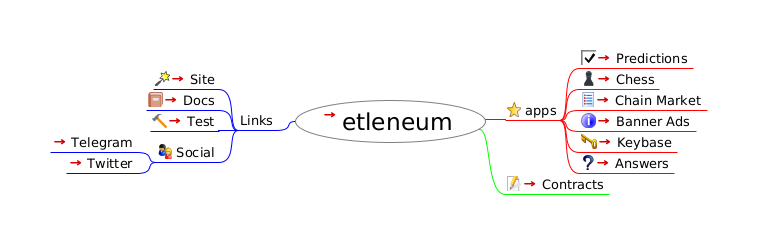
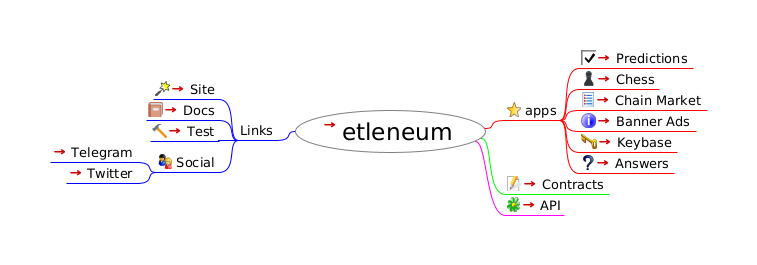
add etleneum API

Changed region(s): [[0.1823, 0.1721, 0.9419, 0.832], [0.0608, 0.5451, 0.3038, 0.7172], [0.1823, 0.2869, 0.3038, 0.459]]

diff --git a/contracts/etleneum/index.html b/contracts/etleneum/index.html
@@ -23,7 +23,7 @@
                    };
                };
           
-          --></script></head><body><h1>etleneum</h1><div style="width:96%;  padding:2%;  margin-bottom:10px;  border: 0px;  text-align:center;  vertical-align:center;"><img src="index.html_files/image.png" style="margin-bottom:10px; &#9;border: 0px; &#9;text-align:center; &#9;vertical-align:center;" alt="Imagemap" usemap="#fm_imagemap" /></div><map name="fm_imagemap" id="fm_imagemap"><area shape="rect" href="../../index.html" alt="etleneum" title="etleneum" coords="295,100,486,143" />
+          --></script></head><body><h1>etleneum</h1><div style="width:96%;  padding:2%;  margin-bottom:10px;  border: 0px;  text-align:center;  vertical-align:center;"><img src="index.html_files/image.png" style="margin-bottom:10px; &#9;border: 0px; &#9;text-align:center; &#9;vertical-align:center;" alt="Imagemap" usemap="#fm_imagemap" /></div><map name="fm_imagemap" id="fm_imagemap"><area shape="rect" href="../../index.html" alt="etleneum" title="etleneum" coords="295,110,486,153" />
 <area shape="rect" href="#FMID_155456580FM" alt="apps" title="apps" coords="505,102,560,120" />
 <area shape="rect" href="https://predictions.etleneum.com/" alt="Predictions" title="Predictions" coords="579,50,693,68" />
 <area shape="rect" href="http://lichess.etleneum.com/" alt="Chess" title="Chess" coords="579,71,659,89" />
@@ -31,15 +31,16 @@
 <area shape="rect" href="https://banners.etleneum.com/" alt="Banner Ads" title="Banner Ads" coords="579,113,696,131" />
 <area shape="rect" href="https://kad.etleneum.com/" alt="Keybase" title="Keybase" coords="579,134,677,152" />
 <area shape="rect" href="https://s4a.etleneum.com/" alt="Answers" title="Answers" coords="579,155,674,173" />
-<area shape="rect" href="#FMID_1589865073FM" alt="Links" title="Links" coords="238,112,276,130" />
-<area shape="rect" href="https://etleneum.com/" alt="Site" title="Site" coords="153,71,219,89" />
-<area shape="rect" href="https://etleneum.com/#/docs" alt="Docs" title="Docs" coords="146,92,219,110" />
-<area shape="rect" href="https://test.etleneum.com/" alt="Test" title="Test" coords="150,113,219,131" />
-<area shape="rect" href="#FMID_741069104FM" alt="Social" title="Social" coords="156,144,219,162" />
-<area shape="rect" href="https://t.me/etleneum" alt="Telegram" title="Telegram" coords="50,134,137,152" />
-<area shape="rect" href="https://twitter.com/etleneum2" alt="Twitter" title="Twitter" coords="66,155,137,173" />
+<area shape="rect" href="#FMID_1589865073FM" alt="Links" title="Links" coords="238,122,276,140" />
+<area shape="rect" href="https://etleneum.com/" alt="Site" title="Site" coords="153,81,219,99" />
+<area shape="rect" href="https://etleneum.com/#/docs" alt="Docs" title="Docs" coords="146,102,219,120" />
+<area shape="rect" href="https://test.etleneum.com/" alt="Test" title="Test" coords="150,123,219,141" />
+<area shape="rect" href="#FMID_741069104FM" alt="Social" title="Social" coords="156,154,219,172" />
+<area shape="rect" href="https://t.me/etleneum" alt="Telegram" title="Telegram" coords="50,144,137,162" />
+<area shape="rect" href="https://twitter.com/etleneum2" alt="Twitter" title="Twitter" coords="66,165,137,183" />
 <area shape="rect" href="https://etleneum.com/#/contracts" alt="Contracts" title="Contracts" coords="505,176,609,194" />
+<area shape="rect" href="API.html" alt="API" title="API" coords="505,197,564,215" />
 </map>
 
-<div class="node"><img src="index.html_files/hide.png" class="hideshow" alt="hide" onClick="toggle(&quot;N65543&quot;)" id="imgN65543" /><a id="FMID_1388300726FM" /><div class="nodecontent" style="color:#000000;font-size:150%;"><a href="../../index.html">etleneum</a> <a href="../../index.html"><img src="index.html_files/ilink.png" alt="User Link" style="border-width:0" /></a></div><div class="content" id="N65543"><div class="node"><img src="index.html_files/hide.png" class="hideshow" alt="hide" onClick="toggle(&quot;N66440&quot;)" id="imgN66440" /><img src="index.html_files/icons/bookmark.svg" alt="bookmark" /> <a id="FMID_155456580FM" /><div class="nodecontent" style="color:#000000;font-size:83%;">apps</div><div class="content" id="N66440"><div class="node"><img src="index.html_files/leaf.png" class="hideshow" alt="leaf" /><img src="index.html_files/icons/checked.svg" alt="checked" /> <a id="FMID_230763179FM" /><div class="nodecontent" style="color:#000000;font-size:83%;"><a href="https://predictions.etleneum.com/">Predictions</a> <a href="https://predictions.etleneum.com/"><img src="index.html_files/ilink.png" alt="User Link" style="border-width:0" /></a></div></div><div class="node"><img src="index.html_files/leaf.png" class="hideshow" alt="leaf" /><img src="index.html_files/icons/emoji-265F.png" alt="emoji-265F" /> <a id="FMID_623666999FM" /><div class="nodecontent" style="color:#000000;font-size:83%;"><a href="http://lichess.etleneum.com/">Chess</a> <a href="http://lichess.etleneum.com/"><img src="index.html_files/ilink.png" alt="User Link" style="border-width:0" /></a></div></div><div class="node"><img src="index.html_files/leaf.png" class="hideshow" alt="leaf" /><img src="index.html_files/icons/list.svg" alt="list" /> <a id="FMID_97132608FM" /><div class="nodecontent" style="color:#000000;font-size:83%;"><a href="https://chainmarket.etleneum.com/">Chain Market</a> <a href="https://chainmarket.etleneum.com/"><img src="index.html_files/ilink.png" alt="User Link" style="border-width:0" /></a></div></div><div class="node"><img src="index.html_files/leaf.png" class="hideshow" alt="leaf" /><img src="index.html_files/icons/info.svg" alt="info" /> <a id="FMID_1128227880FM" /><div class="nodecontent" style="color:#000000;font-size:83%;"><a href="https://banners.etleneum.com/">Banner Ads</a> <a href="https://banners.etleneum.com/"><img src="index.html_files/ilink.png" alt="User Link" style="border-width:0" /></a></div></div><div class="node"><img src="index.html_files/leaf.png" class="hideshow" alt="leaf" /><img src="index.html_files/icons/password.svg" alt="password" /> <a id="FMID_775382578FM" /><div class="nodecontent" style="color:#000000;font-size:83%;"><a href="https://kad.etleneum.com/">Keybase</a> <a href="https://kad.etleneum.com/"><img src="index.html_files/ilink.png" alt="User Link" style="border-width:0" /></a></div></div><div class="node"><img src="index.html_files/leaf.png" class="hideshow" alt="leaf" /><img src="index.html_files/icons/help.svg" alt="help" /> <a id="FMID_102962202FM" /><div class="nodecontent" style="color:#000000;font-size:83%;"><a href="https://s4a.etleneum.com/">Answers</a> <a href="https://s4a.etleneum.com/"><img src="index.html_files/ilink.png" alt="User Link" style="border-width:0" /></a></div></div></div></div><div class="node"><img src="index.html_files/hide.png" class="hideshow" alt="hide" onClick="toggle(&quot;N66734&quot;)" id="imgN66734" /><a id="FMID_1589865073FM" /><div class="nodecontent" style="color:#000000;font-size:83%;">Links</div><div class="content" id="N66734"><div class="node"><img src="index.html_files/leaf.png" class="hideshow" alt="leaf" /><img src="index.html_files/icons/wizard.svg" alt="wizard" /> <a id="FMID_1240101594FM" /><div class="nodecontent" style="color:#000000;font-size:83%;"><a href="https://etleneum.com/">Site</a> <a href="https://etleneum.com/"><img src="index.html_files/ilink.png" alt="User Link" style="border-width:0" /></a></div></div><div class="node"><img src="index.html_files/leaf.png" class="hideshow" alt="leaf" /><img src="index.html_files/icons/emoji-1F4D4.png" alt="emoji-1F4D4" /> <a id="FMID_1094040580FM" /><div class="nodecontent" style="color:#000000;font-size:83%;"><a href="https://etleneum.com/#/docs">Docs</a> <a href="https://etleneum.com/#/docs"><img src="index.html_files/ilink.png" alt="User Link" style="border-width:0" /></a></div></div><div class="node"><img src="index.html_files/leaf.png" class="hideshow" alt="leaf" /><img src="index.html_files/icons/emoji-1F528.png" alt="emoji-1F528" /> <a id="FMID_1572353532FM" /><div class="nodecontent" style="color:#000000;font-size:83%;"><a href="https://test.etleneum.com/">Test</a> <a href="https://test.etleneum.com/"><img src="index.html_files/ilink.png" alt="User Link" style="border-width:0" /></a></div></div><div class="node"><img src="index.html_files/hide.png" class="hideshow" alt="hide" onClick="toggle(&quot;N66896&quot;)" id="imgN66896" /><img src="index.html_files/icons/fema.svg" alt="fema" /> <a id="FMID_741069104FM" /><div class="nodecontent" style="color:#000000;font-size:83%;">Social</div><div class="content" id="N66896"><div class="node"><img src="index.html_files/leaf.png" class="hideshow" alt="leaf" /><a id="FMID_1447316975FM" /><div class="nodecontent" style="color:#000000;font-size:83%;"><a href="https://t.me/etleneum">Telegram</a> <a href="https://t.me/etleneum"><img src="index.html_files/ilink.png" alt="User Link" style="border-width:0" /></a></div></div><div class="node"><img src="index.html_files/leaf.png" class="hideshow" alt="leaf" /><a id="FMID_1489373962FM" /><div class="nodecontent" style="color:#000000;font-size:83%;"><a href="https://twitter.com/etleneum2">Twitter</a> <a href="https://twitter.com/etleneum2"><img src="index.html_files/ilink.png" alt="User Link" style="border-width:0" /></a></div></div></div></div></div></div><div class="node"><img src="index.html_files/leaf.png" class="hideshow" alt="leaf" /><img src="index.html_files/icons/edit.svg" alt="edit" /> <a id="FMID_1943988554FM" /><div class="nodecontent" style="color:#000000;font-size:83%;"><a href="https://etleneum.com/#/contracts">Contracts</a> <a href="https://etleneum.com/#/contracts"><img src="index.html_files/ilink.png" alt="User Link" style="border-width:0" /></a></div></div></div></div>
+<div class="node"><img src="index.html_files/hide.png" class="hideshow" alt="hide" onClick="toggle(&quot;N65543&quot;)" id="imgN65543" /><a id="FMID_1388300726FM" /><div class="nodecontent" style="color:#000000;font-size:150%;"><a href="../../index.html">etleneum</a> <a href="../../index.html"><img src="index.html_files/ilink.png" alt="User Link" style="border-width:0" /></a></div><div class="content" id="N65543"><div class="node"><img src="index.html_files/hide.png" class="hideshow" alt="hide" onClick="toggle(&quot;N66440&quot;)" id="imgN66440" /><img src="index.html_files/icons/bookmark.svg" alt="bookmark" /> <a id="FMID_155456580FM" /><div class="nodecontent" style="color:#000000;font-size:83%;">apps</div><div class="content" id="N66440"><div class="node"><img src="index.html_files/leaf.png" class="hideshow" alt="leaf" /><img src="index.html_files/icons/checked.svg" alt="checked" /> <a id="FMID_230763179FM" /><div class="nodecontent" style="color:#000000;font-size:83%;"><a href="https://predictions.etleneum.com/">Predictions</a> <a href="https://predictions.etleneum.com/"><img src="index.html_files/ilink.png" alt="User Link" style="border-width:0" /></a></div></div><div class="node"><img src="index.html_files/leaf.png" class="hideshow" alt="leaf" /><img src="index.html_files/icons/emoji-265F.png" alt="emoji-265F" /> <a id="FMID_623666999FM" /><div class="nodecontent" style="color:#000000;font-size:83%;"><a href="http://lichess.etleneum.com/">Chess</a> <a href="http://lichess.etleneum.com/"><img src="index.html_files/ilink.png" alt="User Link" style="border-width:0" /></a></div></div><div class="node"><img src="index.html_files/leaf.png" class="hideshow" alt="leaf" /><img src="index.html_files/icons/list.svg" alt="list" /> <a id="FMID_97132608FM" /><div class="nodecontent" style="color:#000000;font-size:83%;"><a href="https://chainmarket.etleneum.com/">Chain Market</a> <a href="https://chainmarket.etleneum.com/"><img src="index.html_files/ilink.png" alt="User Link" style="border-width:0" /></a></div></div><div class="node"><img src="index.html_files/leaf.png" class="hideshow" alt="leaf" /><img src="index.html_files/icons/info.svg" alt="info" /> <a id="FMID_1128227880FM" /><div class="nodecontent" style="color:#000000;font-size:83%;"><a href="https://banners.etleneum.com/">Banner Ads</a> <a href="https://banners.etleneum.com/"><img src="index.html_files/ilink.png" alt="User Link" style="border-width:0" /></a></div></div><div class="node"><img src="index.html_files/leaf.png" class="hideshow" alt="leaf" /><img src="index.html_files/icons/password.svg" alt="password" /> <a id="FMID_775382578FM" /><div class="nodecontent" style="color:#000000;font-size:83%;"><a href="https://kad.etleneum.com/">Keybase</a> <a href="https://kad.etleneum.com/"><img src="index.html_files/ilink.png" alt="User Link" style="border-width:0" /></a></div></div><div class="node"><img src="index.html_files/leaf.png" class="hideshow" alt="leaf" /><img src="index.html_files/icons/help.svg" alt="help" /> <a id="FMID_102962202FM" /><div class="nodecontent" style="color:#000000;font-size:83%;"><a href="https://s4a.etleneum.com/">Answers</a> <a href="https://s4a.etleneum.com/"><img src="index.html_files/ilink.png" alt="User Link" style="border-width:0" /></a></div></div></div></div><div class="node"><img src="index.html_files/hide.png" class="hideshow" alt="hide" onClick="toggle(&quot;N66734&quot;)" id="imgN66734" /><a id="FMID_1589865073FM" /><div class="nodecontent" style="color:#000000;font-size:83%;">Links</div><div class="content" id="N66734"><div class="node"><img src="index.html_files/leaf.png" class="hideshow" alt="leaf" /><img src="index.html_files/icons/wizard.svg" alt="wizard" /> <a id="FMID_1240101594FM" /><div class="nodecontent" style="color:#000000;font-size:83%;"><a href="https://etleneum.com/">Site</a> <a href="https://etleneum.com/"><img src="index.html_files/ilink.png" alt="User Link" style="border-width:0" /></a></div></div><div class="node"><img src="index.html_files/leaf.png" class="hideshow" alt="leaf" /><img src="index.html_files/icons/emoji-1F4D4.png" alt="emoji-1F4D4" /> <a id="FMID_1094040580FM" /><div class="nodecontent" style="color:#000000;font-size:83%;"><a href="https://etleneum.com/#/docs">Docs</a> <a href="https://etleneum.com/#/docs"><img src="index.html_files/ilink.png" alt="User Link" style="border-width:0" /></a></div></div><div class="node"><img src="index.html_files/leaf.png" class="hideshow" alt="leaf" /><img src="index.html_files/icons/emoji-1F528.png" alt="emoji-1F528" /> <a id="FMID_1572353532FM" /><div class="nodecontent" style="color:#000000;font-size:83%;"><a href="https://test.etleneum.com/">Test</a> <a href="https://test.etleneum.com/"><img src="index.html_files/ilink.png" alt="User Link" style="border-width:0" /></a></div></div><div class="node"><img src="index.html_files/hide.png" class="hideshow" alt="hide" onClick="toggle(&quot;N66896&quot;)" id="imgN66896" /><img src="index.html_files/icons/fema.svg" alt="fema" /> <a id="FMID_741069104FM" /><div class="nodecontent" style="color:#000000;font-size:83%;">Social</div><div class="content" id="N66896"><div class="node"><img src="index.html_files/leaf.png" class="hideshow" alt="leaf" /><a id="FMID_1447316975FM" /><div class="nodecontent" style="color:#000000;font-size:83%;"><a href="https://t.me/etleneum">Telegram</a> <a href="https://t.me/etleneum"><img src="index.html_files/ilink.png" alt="User Link" style="border-width:0" /></a></div></div><div class="node"><img src="index.html_files/leaf.png" class="hideshow" alt="leaf" /><a id="FMID_1489373962FM" /><div class="nodecontent" style="color:#000000;font-size:83%;"><a href="https://twitter.com/etleneum2">Twitter</a> <a href="https://twitter.com/etleneum2"><img src="index.html_files/ilink.png" alt="User Link" style="border-width:0" /></a></div></div></div></div></div></div><div class="node"><img src="index.html_files/leaf.png" class="hideshow" alt="leaf" /><img src="index.html_files/icons/edit.svg" alt="edit" /> <a id="FMID_1943988554FM" /><div class="nodecontent" style="color:#000000;font-size:83%;"><a href="https://etleneum.com/#/contracts">Contracts</a> <a href="https://etleneum.com/#/contracts"><img src="index.html_files/ilink.png" alt="User Link" style="border-width:0" /></a></div></div><div class="node"><img src="index.html_files/leaf.png" class="hideshow" alt="leaf" /><img src="index.html_files/icons/licq.svg" alt="licq" /> <a id="FMID_827355597FM" /><div class="nodecontent" style="color:#000000;font-size:83%;"><a href="API.html">API</a> <a href="API.html"><img src="index.html_files/ilink.png" alt="User Link" style="border-width:0" /></a></div></div></div></div>
 </body></html>

diff --git a/contracts/etleneum/API.html b/contracts/etleneum/API.html
@@ -1,0 +1,42 @@
+<?xml version="1.0" encoding="UTF-8"?><!DOCTYPE html PUBLIC "-//W3C//DTD XHTML 1.1//EN" "http://www.w3.org/TR/xhtml11/DTD/xhtml11.dtd">
+<html xmlns="http://www.w3.org/1999/xhtml"><meta http-equiv="Content-Type" content="text/html; charset=UTF-8" /><!--This file has been created with processhtml.sh--><head><title>API</title><link rel="stylesheet" href="API.html_files/freeplane2html.css" type="text/css" /><meta name="generator" content="Freeplane-XSL Stylesheet (see: http://freeplane-xsl.dev.slash-me.net/ for details)" /><script type="text/javascript" src="API.html_files/freeplane2html.js"> 
+	</script><script type="text/javascript"><!--
+          
+               function toggle(id)
+               {
+                   div_el = document.getElementById(id);
+                   img_el = document.getElementById('img'+id);
+                   if (div_el.style.display != 'none')
+                   {
+          
+
+                      div_el.style.display='none';
+                      img_el.src = 'API.html_files/show.png';
+          
+                   }
+                   else
+                   {
+          
+                      div_el.style.display='block';
+                      img_el.src = 'API.html_files/hide.png';
+          
+                   };
+               };
+          
+          --></script></head><body><h1>API</h1><div style="width:96%;  padding:2%;  margin-bottom:10px;  border: 0px;  text-align:center;  vertical-align:center;"><img src="API.html_files/image.png" style="margin-bottom:10px; &#9;border: 0px; &#9;text-align:center; &#9;vertical-align:center;" alt="Imagemap" usemap="#fm_imagemap" /></div><map name="fm_imagemap" id="fm_imagemap"><area shape="rect" href="index.html" alt="API" title="API" coords="124,96,208,139" />
+<area shape="rect" href="https://etleneum.com/#/docs" alt="docs" title="docs" coords="50,108,105,126" />
+<area shape="rect" href="#FMID_1073374190FM" alt="endpoints" title="endpoints" coords="227,108,297,126" />
+<area shape="rect" href="https://etleneum.com/~/contracts" alt="contracts" title="contracts" coords="316,50,402,68" />
+<area shape="rect" href="#FMID_920607568FM" alt="contract" title="contract" coords="316,94,375,112" />
+<area shape="rect" href="https://etleneum.com/~/contract/co04ob1edje" alt="id" title="id" coords="394,92,430,110" />
+<area shape="rect" href="https://etleneum.com/~/contract/co04ob1edje/state" alt="state" title="state" coords="449,71,507,89" />
+<area shape="rect" href="https://etleneum.com/~/contract/co04ob1edje/funds" alt="funds" title="funds" coords="449,92,510,110" />
+<area shape="rect" href="https://etleneum.com/~/contract/co04ob1edje/calls" alt="calls" title="calls" coords="449,113,503,131" />
+<area shape="rect" href="#FMID_697787576FM" alt="call" title="call" coords="316,136,343,154" />
+<area shape="rect" href="https://etleneum.com/~/call/rjcflb1eke9" alt="id" title="id" coords="362,134,398,152" />
+<area shape="rect" href="https://etleneum.com/lnurl/auth" alt="auth" title="auth" coords="316,159,370,177" />
+<area shape="rect" href="https://github.com/btcontract/lnurl-rfc/blob/master/lnurl-auth.md" alt="lnurl-auth" title="lnurl-auth" coords="389,157,478,175" />
+</map>
+
+<div class="node"><img src="API.html_files/hide.png" class="hideshow" alt="hide" onClick="toggle(&quot;N65543&quot;)" id="imgN65543" /><a id="FMID_1940681808FM" /><div class="nodecontent" style="color:#000000;font-size:150%;"><a href="index.html">API</a> <a href="index.html"><img src="API.html_files/ilink.png" alt="User Link" style="border-width:0" /></a></div><div class="content" id="N65543"><div class="node"><img src="API.html_files/leaf.png" class="hideshow" alt="leaf" /><a id="FMID_1428654413FM" /><div class="nodecontent" style="color:#000000;font-size:83%;"><a href="https://etleneum.com/#/docs">docs</a> <a href="https://etleneum.com/#/docs"><img src="API.html_files/ilink.png" alt="User Link" style="border-width:0" /></a></div></div><div class="node"><img src="API.html_files/hide.png" class="hideshow" alt="hide" onClick="toggle(&quot;N66478&quot;)" id="imgN66478" /><a id="FMID_1073374190FM" /><div class="nodecontent" style="color:#000000;font-size:83%;">endpoints</div><div class="content" id="N66478"><div class="node"><img src="API.html_files/leaf.png" class="hideshow" alt="leaf" /><a id="FMID_95939727FM" /><div class="nodecontent" style="color:#000000;font-size:83%;"><a href="https://etleneum.com/~/contracts">contracts</a> <a href="https://etleneum.com/~/contracts"><img src="API.html_files/ilink.png" alt="User Link" style="border-width:0" /></a></div></div><div class="node"><img src="API.html_files/hide.png" class="hideshow" alt="hide" onClick="toggle(&quot;N66551&quot;)" id="imgN66551" /><a id="FMID_920607568FM" /><div class="nodecontent" style="color:#000000;font-size:83%;">contract</div><div class="content" id="N66551"><div class="node"><img src="API.html_files/hide.png" class="hideshow" alt="hide" onClick="toggle(&quot;N66586&quot;)" id="imgN66586" /><a id="FMID_819408260FM" /><div class="nodecontent" style="color:#000000;font-size:83%;"><a href="https://etleneum.com/~/contract/co04ob1edje">id</a> <a href="https://etleneum.com/~/contract/co04ob1edje"><img src="API.html_files/ilink.png" alt="User Link" style="border-width:0" /></a></div><div class="content" id="N66586"><div class="node"><img src="API.html_files/leaf.png" class="hideshow" alt="leaf" /><a id="FMID_1039933301FM" /><div class="nodecontent" style="color:#000000;font-size:83%;"><a href="https://etleneum.com/~/contract/co04ob1edje/state">state</a> <a href="https://etleneum.com/~/contract/co04ob1edje/state"><img src="API.html_files/ilink.png" alt="User Link" style="border-width:0" /></a></div></div><div class="node"><img src="API.html_files/leaf.png" class="hideshow" alt="leaf" /><a id="FMID_1733023142FM" /><div class="nodecontent" style="color:#000000;font-size:83%;"><a href="https://etleneum.com/~/contract/co04ob1edje/funds">funds</a> <a href="https://etleneum.com/~/contract/co04ob1edje/funds"><img src="API.html_files/ilink.png" alt="User Link" style="border-width:0" /></a></div></div><div class="node"><img src="API.html_files/leaf.png" class="hideshow" alt="leaf" /><a id="FMID_1849190171FM" /><div class="nodecontent" style="color:#000000;font-size:83%;"><a href="https://etleneum.com/~/contract/co04ob1edje/calls">calls</a> <a href="https://etleneum.com/~/contract/co04ob1edje/calls"><img src="API.html_files/ilink.png" alt="User Link" style="border-width:0" /></a></div></div></div></div></div></div><div class="node"><img src="API.html_files/hide.png" class="hideshow" alt="hide" onClick="toggle(&quot;N66735&quot;)" id="imgN66735" /><a id="FMID_697787576FM" /><div class="nodecontent" style="color:#000000;font-size:83%;">call</div><div class="content" id="N66735"><div class="node"><img src="API.html_files/leaf.png" class="hideshow" alt="leaf" /><a id="FMID_1409054168FM" /><div class="nodecontent" style="color:#000000;font-size:83%;"><a href="https://etleneum.com/~/call/rjcflb1eke9">id</a> <a href="https://etleneum.com/~/call/rjcflb1eke9"><img src="API.html_files/ilink.png" alt="User Link" style="border-width:0" /></a></div></div></div></div><div class="node"><img src="API.html_files/hide.png" class="hideshow" alt="hide" onClick="toggle(&quot;N66808&quot;)" id="imgN66808" /><a id="FMID_891952139FM" /><div class="nodecontent" style="color:#000000;font-size:83%;"><a href="https://etleneum.com/lnurl/auth">auth</a> <a href="https://etleneum.com/lnurl/auth"><img src="API.html_files/ilink.png" alt="User Link" style="border-width:0" /></a></div><div class="content" id="N66808"><div class="node"><img src="API.html_files/leaf.png" class="hideshow" alt="leaf" /><a id="FMID_1415993510FM" /><div class="nodecontent" style="color:#000000;font-size:83%;"><a href="https://github.com/btcontract/lnurl-rfc/blob/master/lnurl-auth.md">lnurl-auth</a> <a href="https://github.com/btcontract/lnurl-rfc/blob/master/lnurl-auth.md"><img src="API.html_files/ilink.png" alt="User Link" style="border-width:0" /></a></div></div></div></div></div></div></div></div>
+</body></html>

diff --git a/contracts/etleneum/API.html_files/freeplane2html.css b/contracts/etleneum/API.html_files/freeplane2html.css
@@ -1,0 +1,65 @@
+body {
+  background-color: #FFFFFF;
+}
+
+div.node {
+  padding-bottom:     1ex;
+  padding-left:       2em;
+}
+
+div.cloud {
+  padding-bottom:     1ex;
+  padding-left:       2em;
+  background-color:   #C0C0FF;
+  border-width:       2px;
+  border-style:       solid;
+  border-color:       #A0A0FF;
+}
+
+div.content {
+  border-width:       1px;
+  border-style:   dashed;
+  border-color:       #C0C0C0;
+}
+
+img.hideshow {
+  padding-right: 1ex;
+}
+
+img.ilink {
+  border-width: 0px;
+  padding-left: 1ex;
+}
+
+/* for notes and image export, fc, 18.7.2005. */
+.images {
+ max-width:50%;
+}
+
+.nodecontent {display:inline;}
+
+.note-and-attributes {
+ margin-left:10%;
+ color:#0000FF;
+}
+
+table.attributes {
+	border-collapse:collapse;
+	empty-cells:show;
+	border:thin black solid;
+}
+table.attributes td,th {
+	border:thin black solid;
+	padding-top:2px;
+	padding-bottom:2px;
+	padding-left:3px;
+	padding-right:3px;
+}
+table.attributes th {
+	text-align:center;
+}
+table.attributes caption {
+	margin-top:1em;
+	font-style:italic;
+	text-align:center;
+}

diff --git a/contracts/etleneum/API.mm b/contracts/etleneum/API.mm
@@ -1,6 +1,6 @@
 <map version="freeplane 1.8.0">
 <!--To view this file, download free mind mapping software Freeplane from http://freeplane.sourceforge.net -->
-<node TEXT="etleneum" FOLDED="false" ID="ID_1388300726" CREATED="1599501858049" MODIFIED="1599501916390" LINK="../../index.mm" STYLE="oval">
+<node TEXT="API" FOLDED="false" ID="ID_1940681808" CREATED="1599514129935" MODIFIED="1599514142030" LINK="index.mm" STYLE="oval">
 <font SIZE="18"/>
 <hook NAME="MapStyle">
     <properties edgeColorConfiguration="#808080ff,#ff0000ff,#0000ffff,#00ff00ff,#ff00ffff,#00ffffff,#7c0000ff,#00007cff,#007c00ff,#7c007cff,#007c7cff,#7c7c00ff" fit_to_viewport="false"/>
@@ -63,53 +63,26 @@
 </stylenode>
 </map_styles>
 </hook>
-<hook NAME="AutomaticEdgeColor" COUNTER="4" RULE="ON_BRANCH_CREATION"/>
-<node TEXT="apps" POSITION="right" ID="ID_155456580" CREATED="1599502609475" MODIFIED="1599502940454">
-<icon BUILTIN="bookmark"/>
+<hook NAME="AutomaticEdgeColor" COUNTER="2" RULE="ON_BRANCH_CREATION"/>
+<node TEXT="docs" POSITION="left" ID="ID_1428654413" CREATED="1599514206211" MODIFIED="1599514236891" LINK="https://etleneum.com/#/docs">
 <edge COLOR="#ff0000"/>
-<node TEXT="Predictions" ID="ID_230763179" CREATED="1599502647098" MODIFIED="1599502916964" LINK="https://predictions.etleneum.com/">
-<icon BUILTIN="checked"/>
 </node>
-<node TEXT="Chess" ID="ID_623666999" CREATED="1599502819185" MODIFIED="1599503083431" LINK="http://lichess.etleneum.com/">
-<icon BUILTIN="emoji-265F"/>
-</node>
-<node TEXT="Chain Market" ID="ID_97132608" CREATED="1599502840947" MODIFIED="1599502860224" LINK="https://chainmarket.etleneum.com/">
-<icon BUILTIN="list"/>
-</node>
-<node TEXT="Banner Ads" ID="ID_1128227880" CREATED="1599502681218" MODIFIED="1599502699207" LINK="https://banners.etleneum.com/">
-<icon BUILTIN="info"/>
-</node>
-<node TEXT="Keybase" ID="ID_775382578" CREATED="1599502870162" MODIFIED="1599502882120" LINK="https://kad.etleneum.com/">
-<icon BUILTIN="password"/>
-</node>
-<node TEXT="Answers" ID="ID_102962202" CREATED="1599502710906" MODIFIED="1599502722177" LINK="https://s4a.etleneum.com/">
-<icon BUILTIN="help"/>
-</node>
-</node>
-<node TEXT="Links" POSITION="left" ID="ID_1589865073" CREATED="1599502907554" MODIFIED="1599502912014">
+<node TEXT="endpoints" POSITION="right" ID="ID_1073374190" CREATED="1599514258261" MODIFIED="1599514260388">
 <edge COLOR="#0000ff"/>
-<node TEXT="Site" ID="ID_1240101594" CREATED="1599502923073" MODIFIED="1599504237755" LINK="https://etleneum.com/">
-<icon BUILTIN="wizard"/>
-</node>
-<node TEXT="Docs" ID="ID_1094040580" CREATED="1599502943361" MODIFIED="1599503126191" LINK="https://etleneum.com/#/docs">
-<icon BUILTIN="emoji-1F4D4"/>
-</node>
-<node TEXT="Test" ID="ID_1572353532" CREATED="1599503136213" MODIFIED="1599503182590" LINK="https://test.etleneum.com/">
-<icon BUILTIN="emoji-1F528"/>
-</node>
-<node TEXT="Social" ID="ID_741069104" CREATED="1599503208326" MODIFIED="1599503226492">
-<icon BUILTIN="fema"/>
-<node TEXT="Telegram" ID="ID_1447316975" CREATED="1599503227885" MODIFIED="1599503485837" LINK="https://t.me/etleneum"/>
-<node TEXT="Twitter" ID="ID_1489373962" CREATED="1599503478840" MODIFIED="1599503548728" LINK="https://twitter.com/etleneum2"/>
+<node TEXT="contracts" ID="ID_95939727" CREATED="1599514278117" MODIFIED="1599514282012" LINK="https://etleneum.com/~/contracts"/>
+<node TEXT="contract" ID="ID_920607568" CREATED="1599514347348" MODIFIED="1599514349644">
+<node TEXT="id" ID="ID_819408260" CREATED="1599514425075" MODIFIED="1599514742355" LINK="https://etleneum.com/~/contract/co04ob1edje">
+<node TEXT="state" ID="ID_1039933301" CREATED="1599514338276" MODIFIED="1599514758978" LINK="https://etleneum.com/~/contract/co04ob1edje/state"/>
+<node TEXT="funds" ID="ID_1733023142" CREATED="1599514339998" MODIFIED="1599514772479" LINK="https://etleneum.com/~/contract/co04ob1edje/funds"/>
+<node TEXT="calls" ID="ID_1849190171" CREATED="1599514341862" MODIFIED="1599514782574" LINK="https://etleneum.com/~/contract/co04ob1edje/calls"/>
 </node>
 </node>
-<node TEXT="Contracts" POSITION="right" ID="ID_1943988554" CREATED="1599502980024" MODIFIED="1599503002917" LINK="https://etleneum.com/#/contracts">
-<icon BUILTIN="edit"/>
-<edge COLOR="#00ff00"/>
+<node TEXT="call" ID="ID_697787576" CREATED="1599514418211" MODIFIED="1599514419961">
+<node TEXT="id" ID="ID_1409054168" CREATED="1599514421075" MODIFIED="1599514819544" LINK="https://etleneum.com/~/call/rjcflb1eke9"/>
 </node>
-<node TEXT="API" POSITION="right" ID="ID_827355597" CREATED="1599514097246" MODIFIED="1599514149156" LINK="API.mm">
-<icon BUILTIN="licq"/>
-<edge COLOR="#ff00ff"/>
+<node TEXT="auth" ID="ID_891952139" CREATED="1599514473948" MODIFIED="1599514482613" LINK="https://etleneum.com/lnurl/auth">
+<node TEXT="lnurl-auth" ID="ID_1415993510" CREATED="1599514601323" MODIFIED="1599514717920" LINK="https://github.com/btcontract/lnurl-rfc/blob/master/lnurl-auth.md"/>
+</node>
 </node>
 </node>
 </map>
